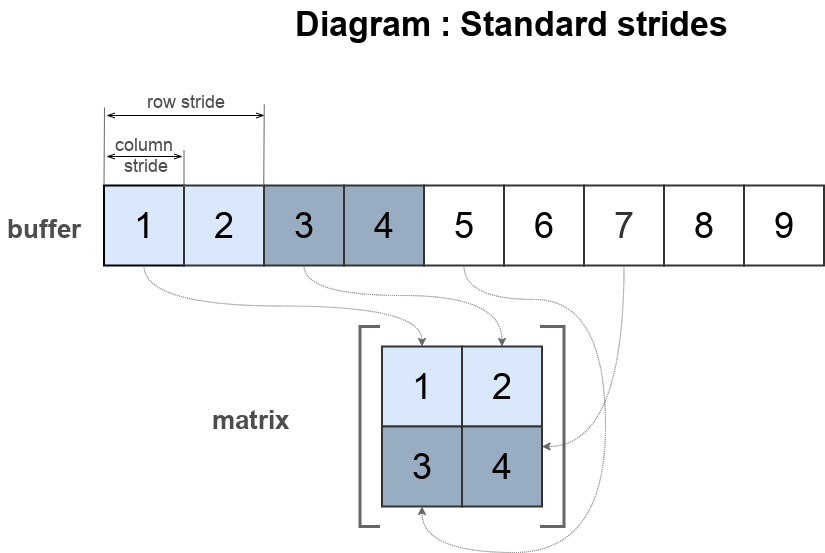
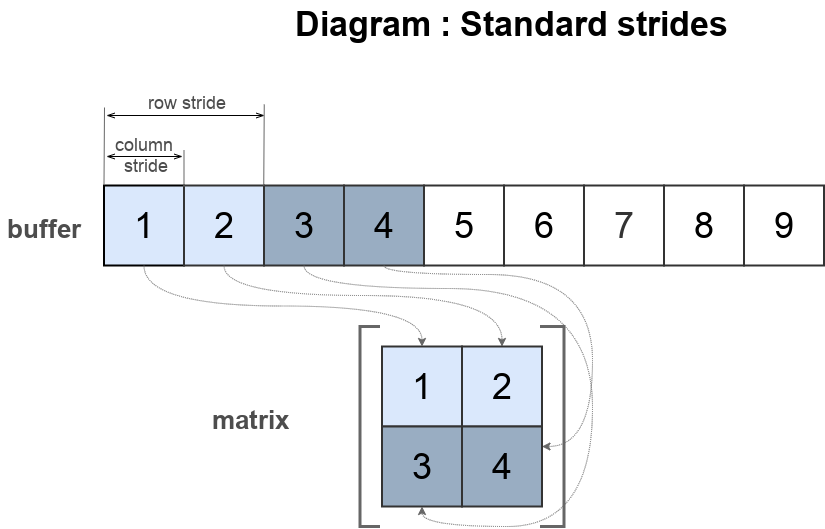
Fix image

diff --git a/doc/ukr/tutorial/OptionStrides.md b/doc/ukr/tutorial/OptionStrides.md
@@ -67,7 +67,7 @@ console.log( 'matrix : ', matrix.toStr() );
 
 ![NonStandardStrides.png](../../img/NonStandardStrides.png)
 
-Діаграма показує як розміщуються елементи матриці в буфері `buffer`.
+Діаграма показує як розміщуються елементи матриці в буфері `buffer`. Зміщення немає, тому матриця починається з першого елемента, має зміщення рядка - 4 елементи, а колонки - 2.
 
 
 ### Негативна ширина кроку
@@ -91,7 +91,7 @@ console.log( 'matrix : ', matrix.toStr() );
 
 ![NonStandardStrides.png](../../img/NonStandardStrides.png)
 
-Діаграма показує як розміщуються елементи матриці в буфері `buffer`.
+Діаграма показує як розміщуються елементи матриці в буфері `buffer`. Матриця має максимальне зміщення до елементу з індексом 8. Відлік елементів ведеться у зворотньому напрямі: крок для рядків - -2 елемента, для колонок - -1 елемент.
 
 
 ### Транспонована матриця з кроком
